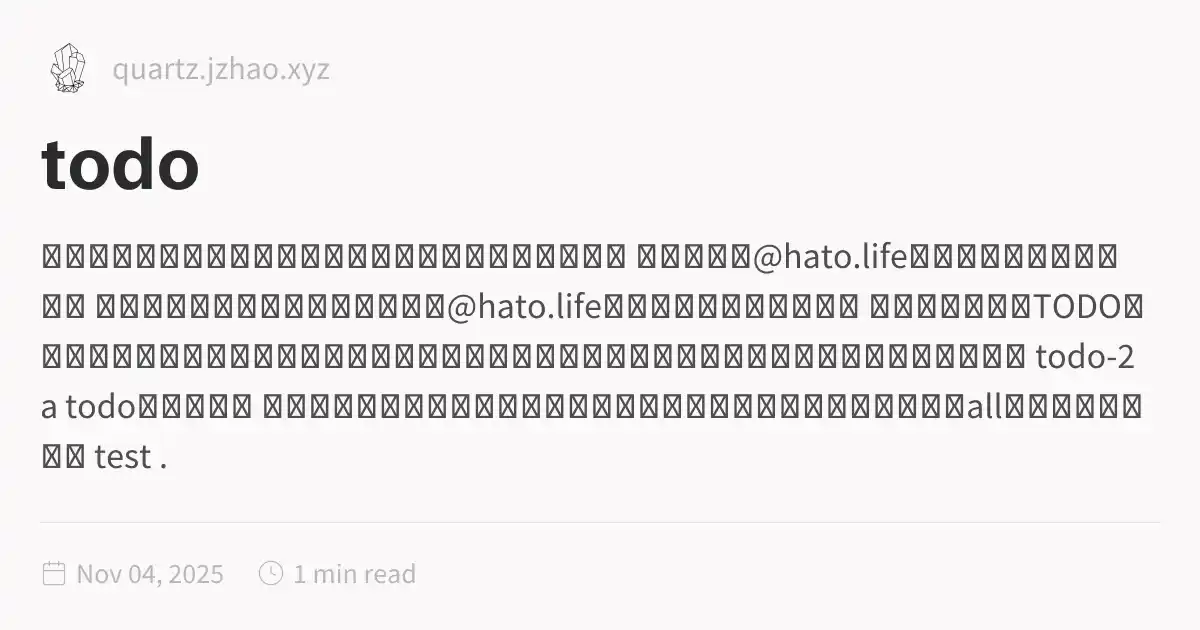
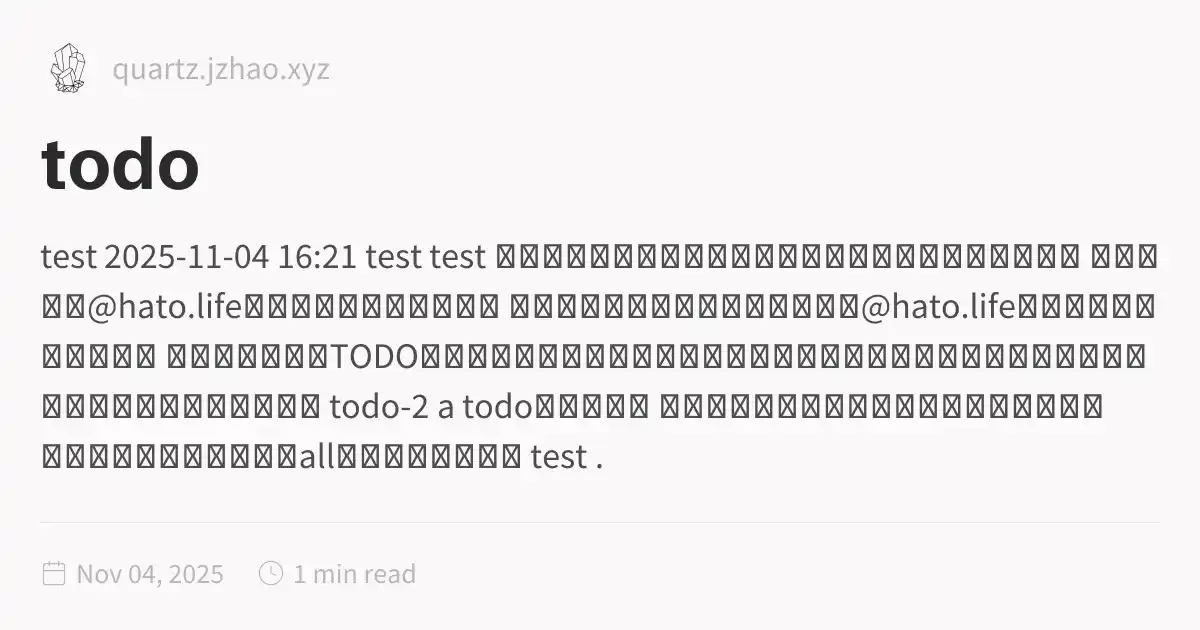
docs: Update published site (2025-11-05 04:18:44)

diff --git a/random.html b/random.html
@@ -1,5 +1,5 @@
 <!DOCTYPE html>
-<html lang="en" dir="ltr"><head><title>random</title><meta charset="utf-8"/><link rel="preconnect" href="https://fonts.googleapis.com"/><link rel="preconnect" href="https://fonts.gstatic.com"/><link rel="stylesheet" href="https://fonts.googleapis.com/css2?family=Schibsted Grotesk:wght@400;700&amp;family=Source Sans Pro:ital,wght@0,400;0,600;1,400;1,600&amp;family=IBM Plex Mono:wght@400;600&amp;display=swap"/><link rel="preconnect" href="https://cdnjs.cloudflare.com" crossorigin="anonymous"/><meta name="viewport" content="width=device-width, initial-scale=1.0"/><meta name="og:site_name" content="Quartz 4"/><meta property="og:title" content="random"/><meta property="og:type" content="website"/><meta name="twitter:card" content="summary_large_image"/><meta name="twitter:title" content="random"/><meta name="twitter:description" content="返信実装テスト。これは子投稿3。 返信実装テスト。これは子投稿2。 返信実装テスト。これは子投稿1。 返信実装テスト。これは最も先祖の投稿。 twitterはここに復活した カテゴリタブは横に長くなりがちで、はみ出してしまう。デフォルトはここにして、後からカテゴリを変更するのが良さげ。 さっさと片づけたい ビルド長い test test."/><meta property="og:description" content="返信実装テスト。これは子投稿3。 返信実装テスト。これは子投稿2。 返信実装テスト。これは子投稿1。 返信実装テスト。これは最も先祖の投稿。 twitterはここに復活した カテゴリタブは横に長くなりがちで、はみ出してしまう。デフォルトはここにして、後からカテゴリを変更するのが良さげ。 さっさと片づけたい ビルド長い test test."/><meta property="og:image:alt" content="返信実装テスト。これは子投稿3。 返信実装テスト。これは子投稿2。 返信実装テスト。これは子投稿1。 返信実装テスト。これは最も先祖の投稿。 twitterはここに復活した カテゴリタブは横に長くなりがちで、はみ出してしまう。デフォルトはここにして、後からカテゴリを変更するのが良さげ。 さっさと片づけたい ビルド長い test test."/><meta property="twitter:domain" content="quartz.jzhao.xyz"/><meta property="og:url" content="https://quartz.jzhao.xyz/random"/><meta property="twitter:url" content="https://quartz.jzhao.xyz/random"/><link rel="icon" href="./static/icon.png"/><meta name="description" content="返信実装テスト。これは子投稿3。 返信実装テスト。これは子投稿2。 返信実装テスト。これは子投稿1。 返信実装テスト。これは最も先祖の投稿。 twitterはここに復活した カテゴリタブは横に長くなりがちで、はみ出してしまう。デフォルトはここにして、後からカテゴリを変更するのが良さげ。 さっさと片づけたい ビルド長い test test."/><meta name="generator" content="Quartz"/><link href="./index.css" rel="stylesheet" type="text/css" spa-preserve/><style>.expand-button {
+<html lang="en" dir="ltr"><head><title>random</title><meta charset="utf-8"/><link rel="preconnect" href="https://fonts.googleapis.com"/><link rel="preconnect" href="https://fonts.gstatic.com"/><link rel="stylesheet" href="https://fonts.googleapis.com/css2?family=Schibsted Grotesk:wght@400;700&amp;family=Source Sans Pro:ital,wght@0,400;0,600;1,400;1,600&amp;family=IBM Plex Mono:wght@400;600&amp;display=swap"/><link rel="preconnect" href="https://cdnjs.cloudflare.com" crossorigin="anonymous"/><meta name="viewport" content="width=device-width, initial-scale=1.0"/><meta name="og:site_name" content="Quartz 4"/><meta property="og:title" content="random"/><meta property="og:type" content="website"/><meta name="twitter:card" content="summary_large_image"/><meta name="twitter:title" content="random"/><meta name="twitter:description" content="返信実装テスト。これは子投稿4。 2025-11-04 16:17 返信実装テスト。これは子投稿4。 返信実装テスト。これは子投稿3。 返信実装テスト。これは子投稿2。 返信実装テスト。これは子投稿1。 返信実装テスト。これは最も先祖の投稿。 twitterはここに復活した カテゴリタブは横に長くなりがちで、はみ出してしまう。デフォルトはここにして、後からカテゴリを変更するのが良さげ。 さっさと片づけたい ビルド長い test test test-3 削除テスト 削除テスト子投稿."/><meta property="og:description" content="返信実装テスト。これは子投稿4。 2025-11-04 16:17 返信実装テスト。これは子投稿4。 返信実装テスト。これは子投稿3。 返信実装テスト。これは子投稿2。 返信実装テスト。これは子投稿1。 返信実装テスト。これは最も先祖の投稿。 twitterはここに復活した カテゴリタブは横に長くなりがちで、はみ出してしまう。デフォルトはここにして、後からカテゴリを変更するのが良さげ。 さっさと片づけたい ビルド長い test test test-3 削除テスト 削除テスト子投稿."/><meta property="og:image:alt" content="返信実装テスト。これは子投稿4。 2025-11-04 16:17 返信実装テスト。これは子投稿4。 返信実装テスト。これは子投稿3。 返信実装テスト。これは子投稿2。 返信実装テスト。これは子投稿1。 返信実装テスト。これは最も先祖の投稿。 twitterはここに復活した カテゴリタブは横に長くなりがちで、はみ出してしまう。デフォルトはここにして、後からカテゴリを変更するのが良さげ。 さっさと片づけたい ビルド長い test test test-3 削除テスト 削除テスト子投稿."/><meta property="twitter:domain" content="quartz.jzhao.xyz"/><meta property="og:url" content="https://quartz.jzhao.xyz/random"/><meta property="twitter:url" content="https://quartz.jzhao.xyz/random"/><link rel="icon" href="./static/icon.png"/><meta name="description" content="返信実装テスト。これは子投稿4。 2025-11-04 16:17 返信実装テスト。これは子投稿4。 返信実装テスト。これは子投稿3。 返信実装テスト。これは子投稿2。 返信実装テスト。これは子投稿1。 返信実装テスト。これは最も先祖の投稿。 twitterはここに復活した カテゴリタブは横に長くなりがちで、はみ出してしまう。デフォルトはここにして、後からカテゴリを変更するのが良さげ。 さっさと片づけたい ビルド長い test test test-3 削除テスト 削除テスト子投稿."/><meta name="generator" content="Quartz"/><link href="./index.css" rel="stylesheet" type="text/css" spa-preserve/><style>.expand-button {
   position: absolute;
   display: flex;
   float: right;
@@ -116,7 +116,15 @@ pre:hover > .expand-button {
   padding: 0 12px;
   font-size: 14px;
 }
[2 lines of base64/hex data omitted]
+
+
+<p>返信実装テスト。これは子投稿4。</p>
+
+
+<h2 id="2025-11-04-1617">2025-11-04 16:17<a role="anchor" aria-hidden="true" tabindex="-1" data-no-popover="true" href="#2025-11-04-1617" class="internal"><svg width="18" height="18" viewBox="0 0 24 24" fill="none" stroke="currentColor" stroke-width="2" stroke-linecap="round" stroke-linejoin="round"><path d="M10 13a5 5 0 0 0 7.54.54l3-3a5 5 0 0 0-7.07-7.07l-1.72 1.71"></path><path d="M14 11a5 5 0 0 0-7.54-.54l-3 3a5 5 0 0 0 7.07 7.07l1.71-1.71"></path></svg></a></h2>
+<p>返信実装テスト。これは子投稿4。</p>
+
 <p>返信実装テスト。これは子投稿3。</p>
 
 <p>返信実装テスト。これは子投稿2。</p>
@@ -135,7 +143,13 @@ pre:hover > .expand-button {
 
 <p>test</p>
 
-<p>test</p></article><hr/><div class="page-footer"></div></div><div class="right sidebar"><div class="graph"><h3>Graph View</h3><div class="graph-outer"><div class="graph-container" data-cfg="{&quot;drag&quot;:true,&quot;zoom&quot;:true,&quot;depth&quot;:1,&quot;scale&quot;:1.1,&quot;repelForce&quot;:0.5,&quot;centerForce&quot;:0.3,&quot;linkDistance&quot;:30,&quot;fontSize&quot;:0.6,&quot;opacityScale&quot;:1,&quot;showTags&quot;:true,&quot;removeTags&quot;:[],&quot;focusOnHover&quot;:false,&quot;enableRadial&quot;:false}"></div><button class="global-graph-icon" aria-label="Global Graph"><svg version="1.1" xmlns="http://www.w3.org/2000/svg" xmlns:xlink="http://www.w3.org/1999/xlink" x="0px" y="0px" viewBox="0 0 55 55" fill="currentColor" xml:space="preserve"><path d="M49,0c-3.309,0-6,2.691-6,6c0,1.035,0.263,2.009,0.726,2.86l-9.829,9.829C32.542,17.634,30.846,17,29,17
+<p>test</p>
+
+<p>test-3</p>
+
+<p>削除テスト</p>
+
+<p>削除テスト子投稿</p></article><hr/><div class="page-footer"></div></div><div class="right sidebar"><div class="graph"><h3>Graph View</h3><div class="graph-outer"><div class="graph-container" data-cfg="{&quot;drag&quot;:true,&quot;zoom&quot;:true,&quot;depth&quot;:1,&quot;scale&quot;:1.1,&quot;repelForce&quot;:0.5,&quot;centerForce&quot;:0.3,&quot;linkDistance&quot;:30,&quot;fontSize&quot;:0.6,&quot;opacityScale&quot;:1,&quot;showTags&quot;:true,&quot;removeTags&quot;:[],&quot;focusOnHover&quot;:false,&quot;enableRadial&quot;:false}"></div><button class="global-graph-icon" aria-label="Global Graph"><svg version="1.1" xmlns="http://www.w3.org/2000/svg" xmlns:xlink="http://www.w3.org/1999/xlink" x="0px" y="0px" viewBox="0 0 55 55" fill="currentColor" xml:space="preserve"><path d="M49,0c-3.309,0-6,2.691-6,6c0,1.035,0.263,2.009,0.726,2.86l-9.829,9.829C32.542,17.634,30.846,17,29,17
                 s-3.542,0.634-4.898,1.688l-7.669-7.669C16.785,10.424,17,9.74,17,9c0-2.206-1.794-4-4-4S9,6.794,9,9s1.794,4,4,4
                 c0.74,0,1.424-0.215,2.019-0.567l7.669,7.669C21.634,21.458,21,23.154,21,25s0.634,3.542,1.688,4.897L10.024,42.562
                 C8.958,41.595,7.549,41,6,41c-3.309,0-6,2.691-6,6s2.691,6,6,6s6-2.691,6-6c0-1.035-0.263-2.009-0.726-2.86l12.829-12.829

diff --git a/todo.html b/todo.html
@@ -1,5 +1,5 @@
 <!DOCTYPE html>
-<html lang="en" dir="ltr"><head><title>todo</title><meta charset="utf-8"/><link rel="preconnect" href="https://fonts.googleapis.com"/><link rel="preconnect" href="https://fonts.gstatic.com"/><link rel="stylesheet" href="https://fonts.googleapis.com/css2?family=Schibsted Grotesk:wght@400;700&amp;family=Source Sans Pro:ital,wght@0,400;0,600;1,400;1,600&amp;family=IBM Plex Mono:wght@400;600&amp;display=swap"/><link rel="preconnect" href="https://cdnjs.cloudflare.com" crossorigin="anonymous"/><meta name="viewport" content="width=device-width, initial-scale=1.0"/><meta name="og:site_name" content="Quartz 4"/><meta property="og:title" content="todo"/><meta property="og:type" content="website"/><meta name="twitter:card" content="summary_large_image"/><meta name="twitter:title" content="todo"/><meta name="twitter:description" content="メールアカウントがとっ散らかっているので整理したい とりあえず@hato.lifeを活用するようにした。 各アカウントのメールアドレスを@hato.lifeに変更する必要がある。 このカテゴリはTODOリスト。新規投稿は自動でチェックボックスが付与される。チェックを入れると非表示になる。 todo-2 a todoは良さそう ちゃんとチェックボックスが付与される、チェックしたら消える、allからは表示される test ."/><meta property="og:description" content="メールアカウントがとっ散らかっているので整理したい とりあえず@hato.lifeを活用するようにした。 各アカウントのメールアドレスを@hato.lifeに変更する必要がある。 このカテゴリはTODOリスト。新規投稿は自動でチェックボックスが付与される。チェックを入れると非表示になる。 todo-2 a todoは良さそう ちゃんとチェックボックスが付与される、チェックしたら消える、allからは表示される test ."/><meta property="og:image:alt" content="メールアカウントがとっ散らかっているので整理したい とりあえず@hato.lifeを活用するようにした。 各アカウントのメールアドレスを@hato.lifeに変更する必要がある。 このカテゴリはTODOリスト。新規投稿は自動でチェックボックスが付与される。チェックを入れると非表示になる。 todo-2 a todoは良さそう ちゃんとチェックボックスが付与される、チェックしたら消える、allからは表示される test ."/><meta property="twitter:domain" content="quartz.jzhao.xyz"/><meta property="og:url" content="https://quartz.jzhao.xyz/todo"/><meta property="twitter:url" content="https://quartz.jzhao.xyz/todo"/><link rel="icon" href="./static/icon.png"/><meta name="description" content="メールアカウントがとっ散らかっているので整理したい とりあえず@hato.lifeを活用するようにした。 各アカウントのメールアドレスを@hato.lifeに変更する必要がある。 このカテゴリはTODOリスト。新規投稿は自動でチェックボックスが付与される。チェックを入れると非表示になる。 todo-2 a todoは良さそう ちゃんとチェックボックスが付与される、チェックしたら消える、allからは表示される test ."/><meta name="generator" content="Quartz"/><link href="./index.css" rel="stylesheet" type="text/css" spa-preserve/><style>.expand-button {
+<html lang="en" dir="ltr"><head><title>todo</title><meta charset="utf-8"/><link rel="preconnect" href="https://fonts.googleapis.com"/><link rel="preconnect" href="https://fonts.gstatic.com"/><link rel="stylesheet" href="https://fonts.googleapis.com/css2?family=Schibsted Grotesk:wght@400;700&amp;family=Source Sans Pro:ital,wght@0,400;0,600;1,400;1,600&amp;family=IBM Plex Mono:wght@400;600&amp;display=swap"/><link rel="preconnect" href="https://cdnjs.cloudflare.com" crossorigin="anonymous"/><meta name="viewport" content="width=device-width, initial-scale=1.0"/><meta name="og:site_name" content="Quartz 4"/><meta property="og:title" content="todo"/><meta property="og:type" content="website"/><meta name="twitter:card" content="summary_large_image"/><meta name="twitter:title" content="todo"/><meta name="twitter:description" content="test 2025-11-04 16:21 test test メールアカウントがとっ散らかっているので整理したい とりあえず@hato.lifeを活用するようにした。 各アカウントのメールアドレスを@hato.lifeに変更する必要がある。 このカテゴリはTODOリスト。新規投稿は自動でチェックボックスが付与される。チェックを入れると非表示になる。 todo-2 a todoは良さそう ちゃんとチェックボックスが付与される、チェックしたら消える、allからは表示される test ."/><meta property="og:description" content="test 2025-11-04 16:21 test test メールアカウントがとっ散らかっているので整理したい とりあえず@hato.lifeを活用するようにした。 各アカウントのメールアドレスを@hato.lifeに変更する必要がある。 このカテゴリはTODOリスト。新規投稿は自動でチェックボックスが付与される。チェックを入れると非表示になる。 todo-2 a todoは良さそう ちゃんとチェックボックスが付与される、チェックしたら消える、allからは表示される test ."/><meta property="og:image:alt" content="test 2025-11-04 16:21 test test メールアカウントがとっ散らかっているので整理したい とりあえず@hato.lifeを活用するようにした。 各アカウントのメールアドレスを@hato.lifeに変更する必要がある。 このカテゴリはTODOリスト。新規投稿は自動でチェックボックスが付与される。チェックを入れると非表示になる。 todo-2 a todoは良さそう ちゃんとチェックボックスが付与される、チェックしたら消える、allからは表示される test ."/><meta property="twitter:domain" content="quartz.jzhao.xyz"/><meta property="og:url" content="https://quartz.jzhao.xyz/todo"/><meta property="twitter:url" content="https://quartz.jzhao.xyz/todo"/><link rel="icon" href="./static/icon.png"/><meta name="description" content="test 2025-11-04 16:21 test test メールアカウントがとっ散らかっているので整理したい とりあえず@hato.lifeを活用するようにした。 各アカウントのメールアドレスを@hato.lifeに変更する必要がある。 このカテゴリはTODOリスト。新規投稿は自動でチェックボックスが付与される。チェックを入れると非表示になる。 todo-2 a todoは良さそう ちゃんとチェックボックスが付与される、チェックしたら消える、allからは表示される test ."/><meta name="generator" content="Quartz"/><link href="./index.css" rel="stylesheet" type="text/css" spa-preserve/><style>.expand-button {
   position: absolute;
   display: flex;
   float: right;
@@ -117,6 +117,15 @@ pre:hover > .expand-button {
   font-size: 14px;
 }
[1 lines of base64/hex data omitted]
+<p>test</p>
+
+<h2 id="2025-11-04-1621">2025-11-04 16:21<a role="anchor" aria-hidden="true" tabindex="-1" data-no-popover="true" href="#2025-11-04-1621" class="internal"><svg width="18" height="18" viewBox="0 0 24 24" fill="none" stroke="currentColor" stroke-width="2" stroke-linecap="round" stroke-linejoin="round"><path d="M10 13a5 5 0 0 0 7.54.54l3-3a5 5 0 0 0-7.07-7.07l-1.72 1.71"></path><path d="M14 11a5 5 0 0 0-7.54-.54l-3 3a5 5 0 0 0 7.07 7.07l1.71-1.71"></path></svg></a></h2>
+<p>test</p>
+
+<ul class="contains-task-list">
+<li class="task-list-item"><input type="checkbox" disabled/> test</li>
+</ul>
+
 <ul class="contains-task-list">
 <li class="task-list-item"><input type="checkbox" disabled/> メールアカウントがとっ散らかっているので整理したい
 <ul class="contains-task-list">

diff --git a/work.html b/work.html
@@ -1,5 +1,5 @@
 <!DOCTYPE html>
-<html lang="en" dir="ltr"><head><title>work</title><meta charset="utf-8"/><link rel="preconnect" href="https://fonts.googleapis.com"/><link rel="preconnect" href="https://fonts.gstatic.com"/><link rel="stylesheet" href="https://fonts.googleapis.com/css2?family=Schibsted Grotesk:wght@400;700&amp;family=Source Sans Pro:ital,wght@0,400;0,600;1,400;1,600&amp;family=IBM Plex Mono:wght@400;600&amp;display=swap"/><link rel="preconnect" href="https://cdnjs.cloudflare.com" crossorigin="anonymous"/><meta name="viewport" content="width=device-width, initial-scale=1.0"/><meta name="og:site_name" content="Quartz 4"/><meta property="og:title" content="work"/><meta property="og:type" content="website"/><meta name="twitter:card" content="summary_large_image"/><meta name="twitter:title" content="work"/><meta name="twitter:description" content="メール対応しないとだめ このカテゴリは非公開投稿予定 bbb asdfasdfgasfasfasdfa aaa bbb qqq 2025/10/29-10:59:30 asdfg 2025-10-29 10:59:42 qwert hhh eeee fff ggg hhh iii jjj kkk lll mmm nnn ooo ppp qqq eeeee eee test test-2 test-3."/><meta property="og:description" content="メール対応しないとだめ このカテゴリは非公開投稿予定 bbb asdfasdfgasfasfasdfa aaa bbb qqq 2025/10/29-10:59:30 asdfg 2025-10-29 10:59:42 qwert hhh eeee fff ggg hhh iii jjj kkk lll mmm nnn ooo ppp qqq eeeee eee test test-2 test-3."/><meta property="og:image:alt" content="メール対応しないとだめ このカテゴリは非公開投稿予定 bbb asdfasdfgasfasfasdfa aaa bbb qqq 2025/10/29-10:59:30 asdfg 2025-10-29 10:59:42 qwert hhh eeee fff ggg hhh iii jjj kkk lll mmm nnn ooo ppp qqq eeeee eee test test-2 test-3."/><meta property="twitter:domain" content="quartz.jzhao.xyz"/><meta property="og:url" content="https://quartz.jzhao.xyz/work"/><meta property="twitter:url" content="https://quartz.jzhao.xyz/work"/><link rel="icon" href="./static/icon.png"/><meta name="description" content="メール対応しないとだめ このカテゴリは非公開投稿予定 bbb asdfasdfgasfasfasdfa aaa bbb qqq 2025/10/29-10:59:30 asdfg 2025-10-29 10:59:42 qwert hhh eeee fff ggg hhh iii jjj kkk lll mmm nnn ooo ppp qqq eeeee eee test test-2 test-3."/><meta name="generator" content="Quartz"/><link href="./index.css" rel="stylesheet" type="text/css" spa-preserve/><style>.expand-button {
+<html lang="en" dir="ltr"><head><title>work</title><meta charset="utf-8"/><link rel="preconnect" href="https://fonts.googleapis.com"/><link rel="preconnect" href="https://fonts.gstatic.com"/><link rel="stylesheet" href="https://fonts.googleapis.com/css2?family=Schibsted Grotesk:wght@400;700&amp;family=Source Sans Pro:ital,wght@0,400;0,600;1,400;1,600&amp;family=IBM Plex Mono:wght@400;600&amp;display=swap"/><link rel="preconnect" href="https://cdnjs.cloudflare.com" crossorigin="anonymous"/><meta name="viewport" content="width=device-width, initial-scale=1.0"/><meta name="og:site_name" content="Quartz 4"/><meta property="og:title" content="work"/><meta property="og:type" content="website"/><meta name="twitter:card" content="summary_large_image"/><meta name="twitter:title" content="work"/><meta name="twitter:description" content="メール対応しないとだめ このカテゴリは非公開投稿予定 bbb asdfasdfgasfasfasdfa aaa bbb qqq 2025/10/29-10:59:30 asdfg 2025-10-29 10:59:42 qwert hhh eeee fff ggg hhh iii jjj kkk lll mmm nnn ooo ppp qqq eeeee eee test test-2."/><meta property="og:description" content="メール対応しないとだめ このカテゴリは非公開投稿予定 bbb asdfasdfgasfasfasdfa aaa bbb qqq 2025/10/29-10:59:30 asdfg 2025-10-29 10:59:42 qwert hhh eeee fff ggg hhh iii jjj kkk lll mmm nnn ooo ppp qqq eeeee eee test test-2."/><meta property="og:image:alt" content="メール対応しないとだめ このカテゴリは非公開投稿予定 bbb asdfasdfgasfasfasdfa aaa bbb qqq 2025/10/29-10:59:30 asdfg 2025-10-29 10:59:42 qwert hhh eeee fff ggg hhh iii jjj kkk lll mmm nnn ooo ppp qqq eeeee eee test test-2."/><meta property="twitter:domain" content="quartz.jzhao.xyz"/><meta property="og:url" content="https://quartz.jzhao.xyz/work"/><meta property="twitter:url" content="https://quartz.jzhao.xyz/work"/><link rel="icon" href="./static/icon.png"/><meta name="description" content="メール対応しないとだめ このカテゴリは非公開投稿予定 bbb asdfasdfgasfasfasdfa aaa bbb qqq 2025/10/29-10:59:30 asdfg 2025-10-29 10:59:42 qwert hhh eeee fff ggg hhh iii jjj kkk lll mmm nnn ooo ppp qqq eeeee eee test test-2."/><meta name="generator" content="Quartz"/><link href="./index.css" rel="stylesheet" type="text/css" spa-preserve/><style>.expand-button {
   position: absolute;
   display: flex;
   float: right;
@@ -170,9 +170,7 @@ pre:hover > .expand-button {
 
 <p>test</p>
 
-<p>test-2</p>
-
-<p>test-3</p></article><hr/><div class="page-footer"></div></div><div class="right sidebar"><div class="graph"><h3>Graph View</h3><div class="graph-outer"><div class="graph-container" data-cfg="{&quot;drag&quot;:true,&quot;zoom&quot;:true,&quot;depth&quot;:1,&quot;scale&quot;:1.1,&quot;repelForce&quot;:0.5,&quot;centerForce&quot;:0.3,&quot;linkDistance&quot;:30,&quot;fontSize&quot;:0.6,&quot;opacityScale&quot;:1,&quot;showTags&quot;:true,&quot;removeTags&quot;:[],&quot;focusOnHover&quot;:false,&quot;enableRadial&quot;:false}"></div><button class="global-graph-icon" aria-label="Global Graph"><svg version="1.1" xmlns="http://www.w3.org/2000/svg" xmlns:xlink="http://www.w3.org/1999/xlink" x="0px" y="0px" viewBox="0 0 55 55" fill="currentColor" xml:space="preserve"><path d="M49,0c-3.309,0-6,2.691-6,6c0,1.035,0.263,2.009,0.726,2.86l-9.829,9.829C32.542,17.634,30.846,17,29,17
+<p>test-2</p></article><hr/><div class="page-footer"></div></div><div class="right sidebar"><div class="graph"><h3>Graph View</h3><div class="graph-outer"><div class="graph-container" data-cfg="{&quot;drag&quot;:true,&quot;zoom&quot;:true,&quot;depth&quot;:1,&quot;scale&quot;:1.1,&quot;repelForce&quot;:0.5,&quot;centerForce&quot;:0.3,&quot;linkDistance&quot;:30,&quot;fontSize&quot;:0.6,&quot;opacityScale&quot;:1,&quot;showTags&quot;:true,&quot;removeTags&quot;:[],&quot;focusOnHover&quot;:false,&quot;enableRadial&quot;:false}"></div><button class="global-graph-icon" aria-label="Global Graph"><svg version="1.1" xmlns="http://www.w3.org/2000/svg" xmlns:xlink="http://www.w3.org/1999/xlink" x="0px" y="0px" viewBox="0 0 55 55" fill="currentColor" xml:space="preserve"><path d="M49,0c-3.309,0-6,2.691-6,6c0,1.035,0.263,2.009,0.726,2.86l-9.829,9.829C32.542,17.634,30.846,17,29,17
                 s-3.542,0.634-4.898,1.688l-7.669-7.669C16.785,10.424,17,9.74,17,9c0-2.206-1.794-4-4-4S9,6.794,9,9s1.794,4,4,4
                 c0.74,0,1.424-0.215,2.019-0.567l7.669,7.669C21.634,21.458,21,23.154,21,25s0.634,3.542,1.688,4.897L10.024,42.562
                 C8.958,41.595,7.549,41,6,41c-3.309,0-6,2.691-6,6s2.691,6,6,6s6-2.691,6-6c0-1.035-0.263-2.009-0.726-2.86l12.829-12.829

diff --git a/content/random.md b/content/random.md
@@ -1,3 +1,17 @@
+<!-- memo-id: 019a4ddb-59b7-7140-871d-49ee193aed43, timestamp: 2025-11-04T16:53:32.343+09:00, category: "random", template: "{{content}}", parent-id: 019a4d95-ba98-744c-887a-cf5ce7793e01, deleted: "true", trashedAt: "2025-11-04T16:53:35.962+09:00" -->
+<!--
+返信実装テスト。これは子投稿5。
+--><!-- memo-id: 019a4dd5-d270-76d3-ba40-e4853937650c, timestamp: 2025-11-04T16:47:30.032+09:00, category: "random", template: "{{content}}", parent-id: 019a4d95-ba98-744c-887a-cf5ce7793e01, deleted: "true", trashedAt: "2025-11-04T16:48:17.322+09:00" -->
+<!--
+返信実装テスト。これは子投稿5。
+--><!-- memo-id: 019a4dd2-3083-721e-9313-587d97ad71b9, timestamp: 2025-11-04T16:43:31.971+09:00, category: "random", template: "{{content}}", parent-id: 019a4d95-ba98-744c-887a-cf5ce7793e01 -->
+返信実装テスト。これは子投稿4。
+<!-- memo-id: 019a4dd1-7502-75f3-a8f4-6fcac0adb6d4, timestamp: 2025-11-04T16:42:43.970+09:00, category: "random", template: "{{content}}", parent-id: 019a4d95-ba98-744c-887a-cf5ce7793e01, deleted: "true", trashedAt: "2025-11-04T16:43:25.566+09:00" -->
+<!--
+返信実装テスト。これは子投稿5。
+--><!-- memo-id: 019a4db9-f778-7139-9d64-47f42d9c75c2, timestamp: 2025-11-04T16:17:04.504+09:00, category: "random", parent-id: 019a4d95-ba98-744c-887a-cf5ce7793e01 -->
+## 2025-11-04 16:17
+返信実装テスト。これは子投稿4。
 <!-- memo-id: 019a4da9-8931-734e-990b-f5e6a3ef630e, timestamp: 2025-11-04T15:59:07.697+09:00, category: "random", template: "{{content}}", parent-id: 019a4d95-ba98-744c-887a-cf5ce7793e01 -->
 返信実装テスト。これは子投稿3。
 <!-- memo-id: 019a4d96-b83b-744a-b97a-76b380f26048, timestamp: 2025-11-04T15:38:34.555+09:00, category: "random", template: "{{content}}", parent-id: 019a4d95-ba98-744c-887a-cf5ce7793e01 -->
@@ -23,3 +37,9 @@ test
 
 <!-- memo-id: 019a388a-4a2e-7318-80ec-75f6069062fb, timestamp: 2025-10-31T04:32:58.414Z, category: "random", template: "{{content}}" -->
 test
+<!-- memo-id: 019a38d5-64a4-73bd-bd16-bd001566a26d, timestamp: 2025-10-31T14:55:00.388+09:00, category: "random", template: "{{content}}" -->
+test-3
+<!-- memo-id: 019a5226-792a-70ae-88f1-92b749216019, timestamp: 2025-11-05T12:54:04.458+09:00, category: "random", template: "{{content}}" -->
+削除テスト
+<!-- memo-id: 019a5226-b992-717e-960a-1ba753c048f8, timestamp: 2025-11-05T12:54:20.946+09:00, category: "random", template: "{{content}}", parent-id: 019a5226-792a-70ae-88f1-92b749216019 -->
+削除テスト子投稿

diff --git a/content/todo.md b/content/todo.md
@@ -1,3 +1,10 @@
+<!-- memo-id: 019a4dc6-01aa-765b-b030-7987cfbd40e0, timestamp: 2025-11-04T16:30:13.546+09:00, category: "todo", template: "{{content}}", parent-id: 019a4dbd-669a-7143-9033-b138d1baa28d -->
+test
+<!-- memo-id: 019a4dbe-2dff-7295-8b73-4c71baa46196, timestamp: 2025-11-04T16:21:40.607+09:00, category: "todo", parent-id: 019a4dbd-669a-7143-9033-b138d1baa28d -->
+## 2025-11-04 16:21
+test
+<!-- memo-id: 019a4dbd-669a-7143-9033-b138d1baa28d, timestamp: 2025-11-04T16:20:49.562+09:00, category: "todo", template: "{{content}}" -->
+- [ ] test
 <!-- memo-id: 019a4c99-8805-704f-b837-afb56e80c899, timestamp: 2025-11-04T11:02:01.606+09:00, category: "todo", template: "{{content}}" -->
 - [ ] メールアカウントがとっ散らかっているので整理したい
   - [x] とりあえず@hato.lifeを活用するようにした。

diff --git a/content/work.md b/content/work.md
@@ -79,5 +79,3 @@ test
 <!-- memo-id: 019a38d4-3155-77a7-b171-38795d3c6f93, timestamp: 2025-10-31T05:53:41.717Z, category: "work", template: "{{content}}" -->
 test-2
 
-<!-- memo-id: 019a38d5-64a4-73bd-bd16-bd001566a26d, timestamp: 2025-10-31T14:55:00.388+09:00, category: "work", template: "{{content}}" -->
-test-3
